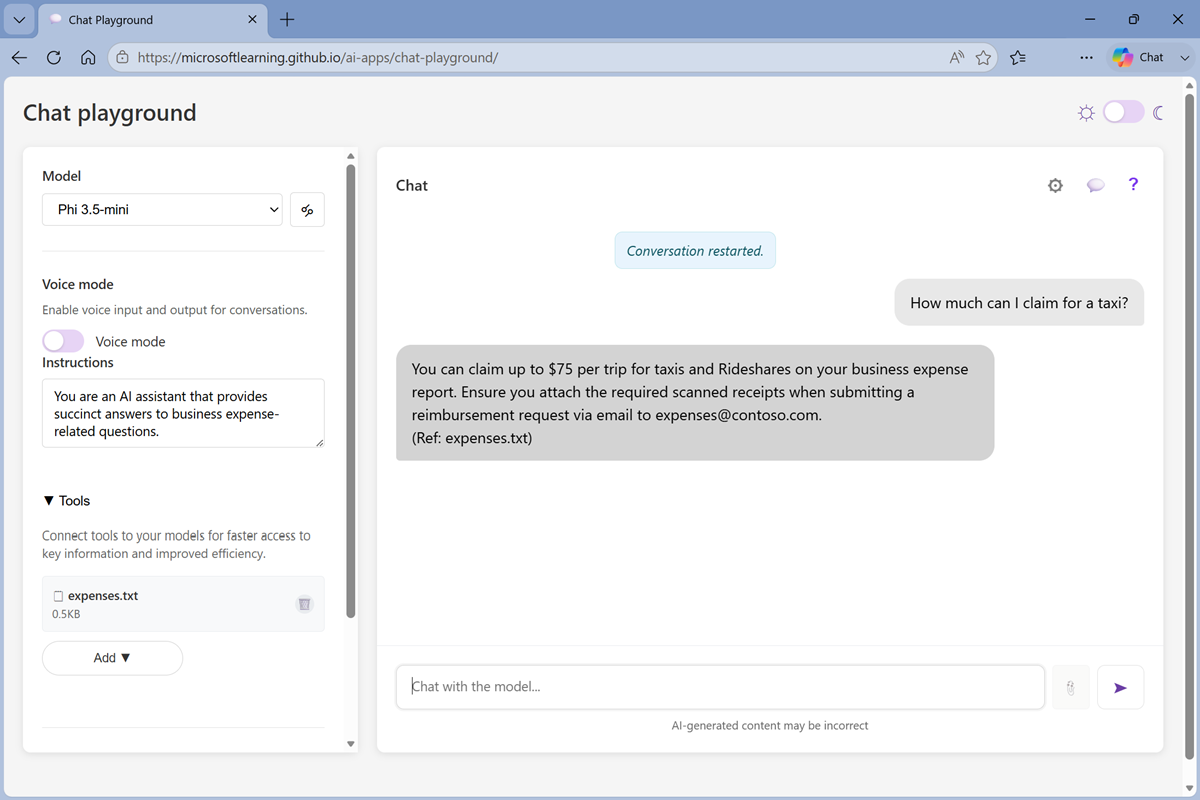
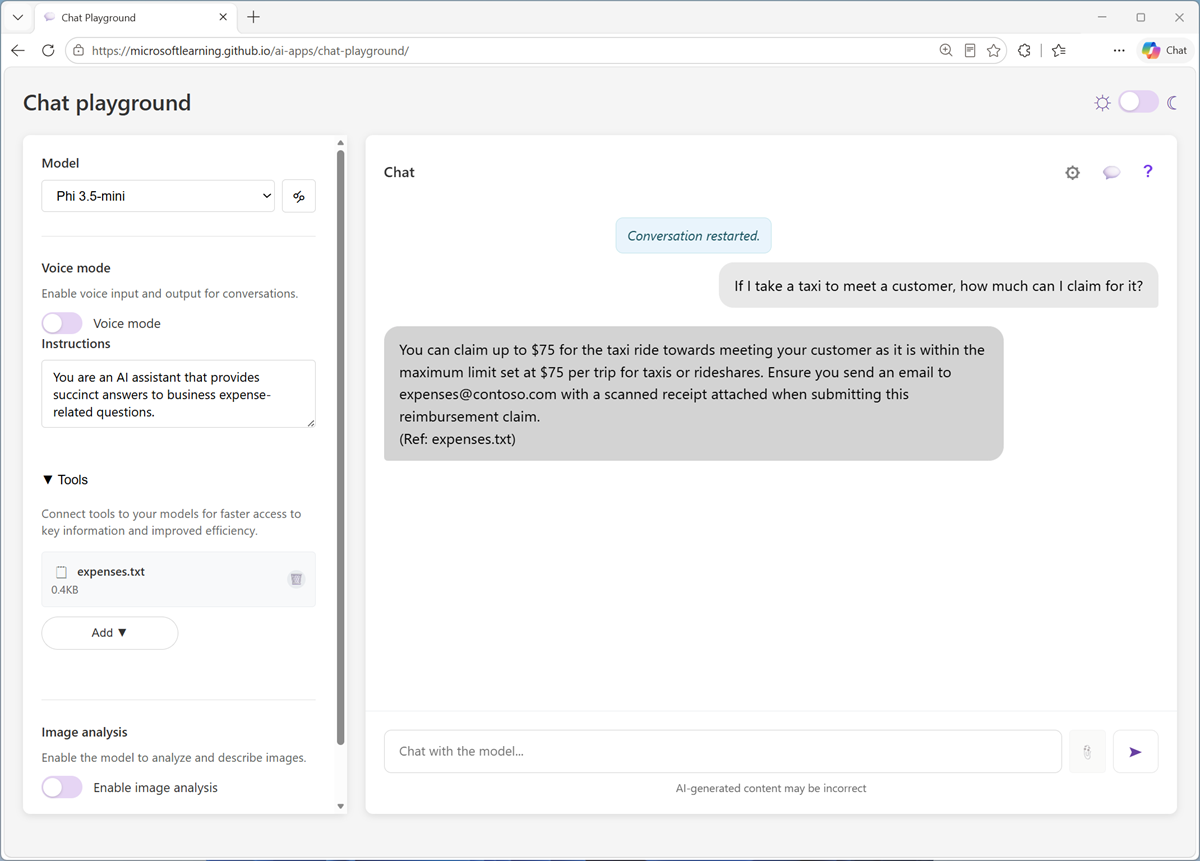
Update expenses prompts

diff --git a/Instructions/exercises/07-explore-rag.md b/Instructions/exercises/07-explore-rag.md
@@ -73,7 +73,7 @@ Let's start by using a chat interface to submit prompts to a generative AI model
     So far, the model has successfully answered some general questions related to expense claims based on the data it was trained with.
 
 1. In the chat playground, at the top of the chat pane, use the **New chat** (&#128172;) button to restart the conversation.
-1. Enter the prompt `How much can I claim for a taxi ride?` and review the response.
+1. Enter the prompt `If I take a taxi to meet a customer, how much can I claim for it?` and review the response.
 
     ![Screenshot of a prompt and response.](./media/expenses_prompt_no_context.png)
 
@@ -92,7 +92,7 @@ Let's start by using a chat interface to submit prompts to a generative AI model
 1. Save the **expenses.txt** file on your local computer.
 1. Return to the tab containing the chat playground, and in the pane on the left, in the **Tools** section, add select **Upload files**.
 1. Upload the **expenses.txt** file. After it's been been uploaded, it's listed in the **Tools** section and the chat is automatically restarted.
-1. Enter the prompt `How much can I claim for a taxi ride?` and view the response.
+1. Enter the prompt `If I take a taxi to meet a customer, how much can I claim for it?` and view the response.
 
     This time the response should be informed by the information in the expenses data source.
 
@@ -100,7 +100,7 @@ Let's start by using a chat interface to submit prompts to a generative AI model
 
     Note that the response includes a citation for the source of the information (the *expenses.txt* file you uploaded).
 
-1. Try more expense-related prompts, such as `What about a hotel?` or `What is a purchase order?` and verify that the uploaded file is referenced if any relevant context is found in it, but not if a search of the file returned no relevant information for the prompt.
+1. Try more expense-related prompts, such as `Can I buy the customer lunch?` or `What is a purchase order?` and verify that the uploaded file is referenced if any relevant context is found in it, but not if a search of the file returned no relevant information for the prompt.
 
     > ![Image of Anton.](./media/anton-icon.png)<br>**Tip**: When you uploaded the file, a simple keyword index was created. You can select the file icon to view this index. In a real-world RAG solution, the index would be more comprehensive and most likely be vector-based and support *semantic* matching in addition to *keyword* matching.
 
